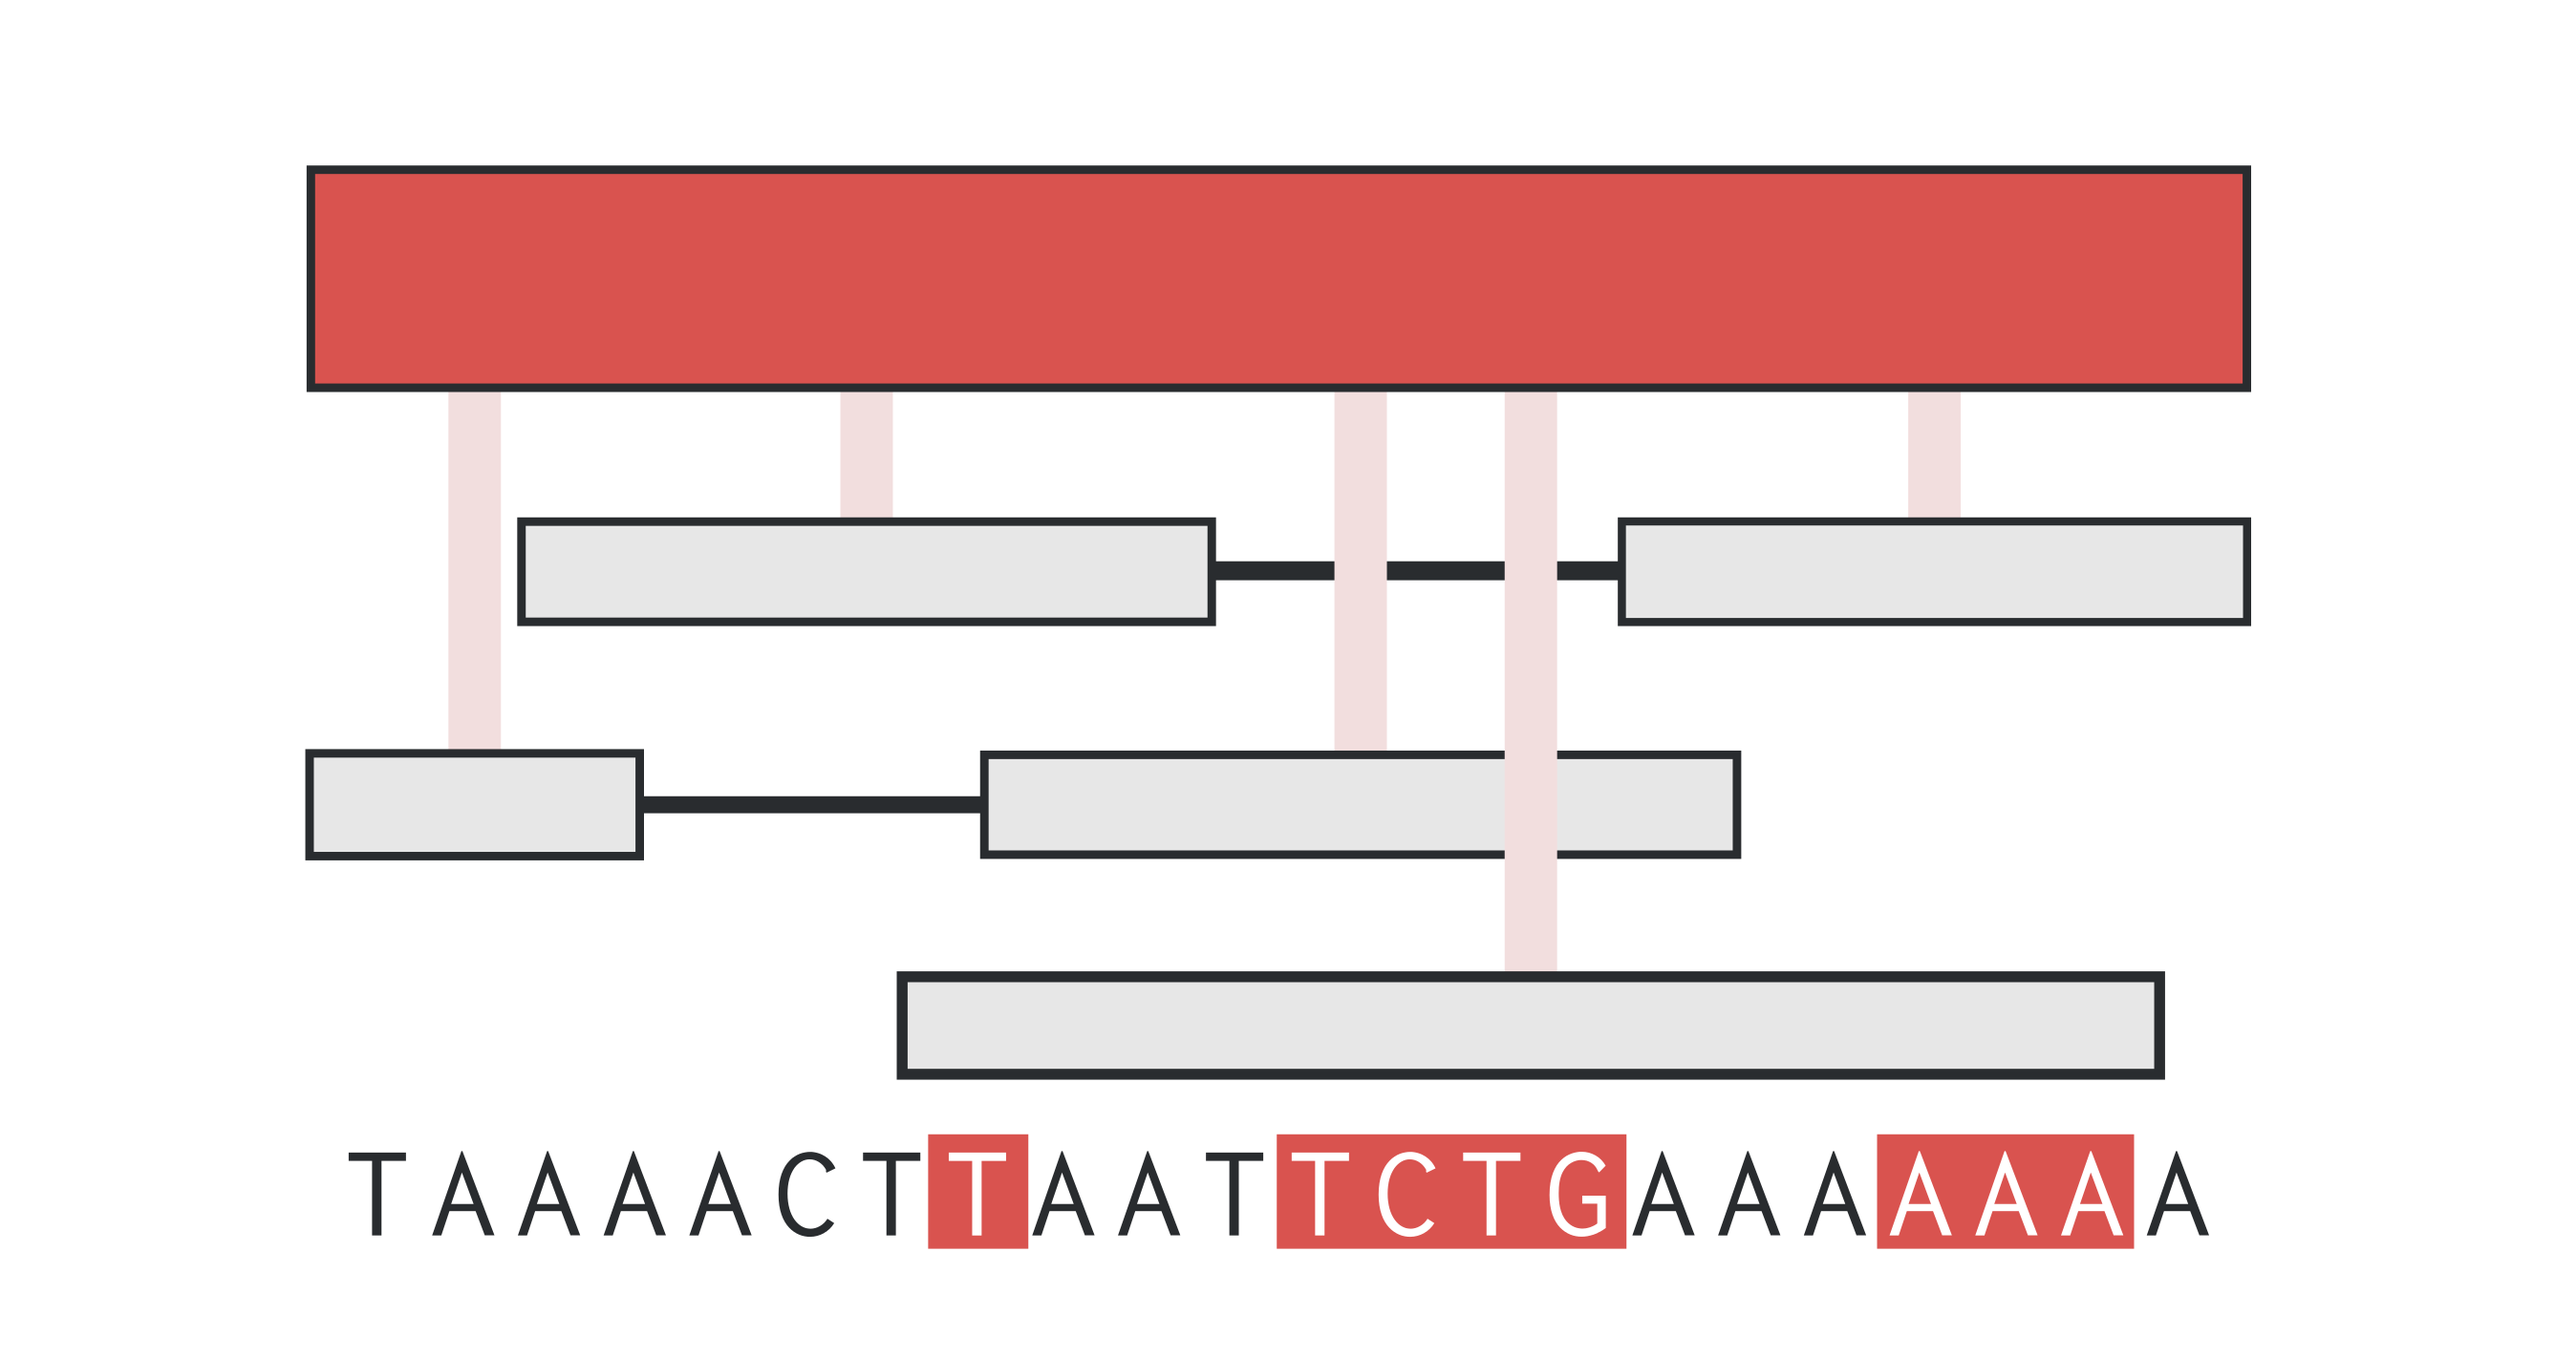
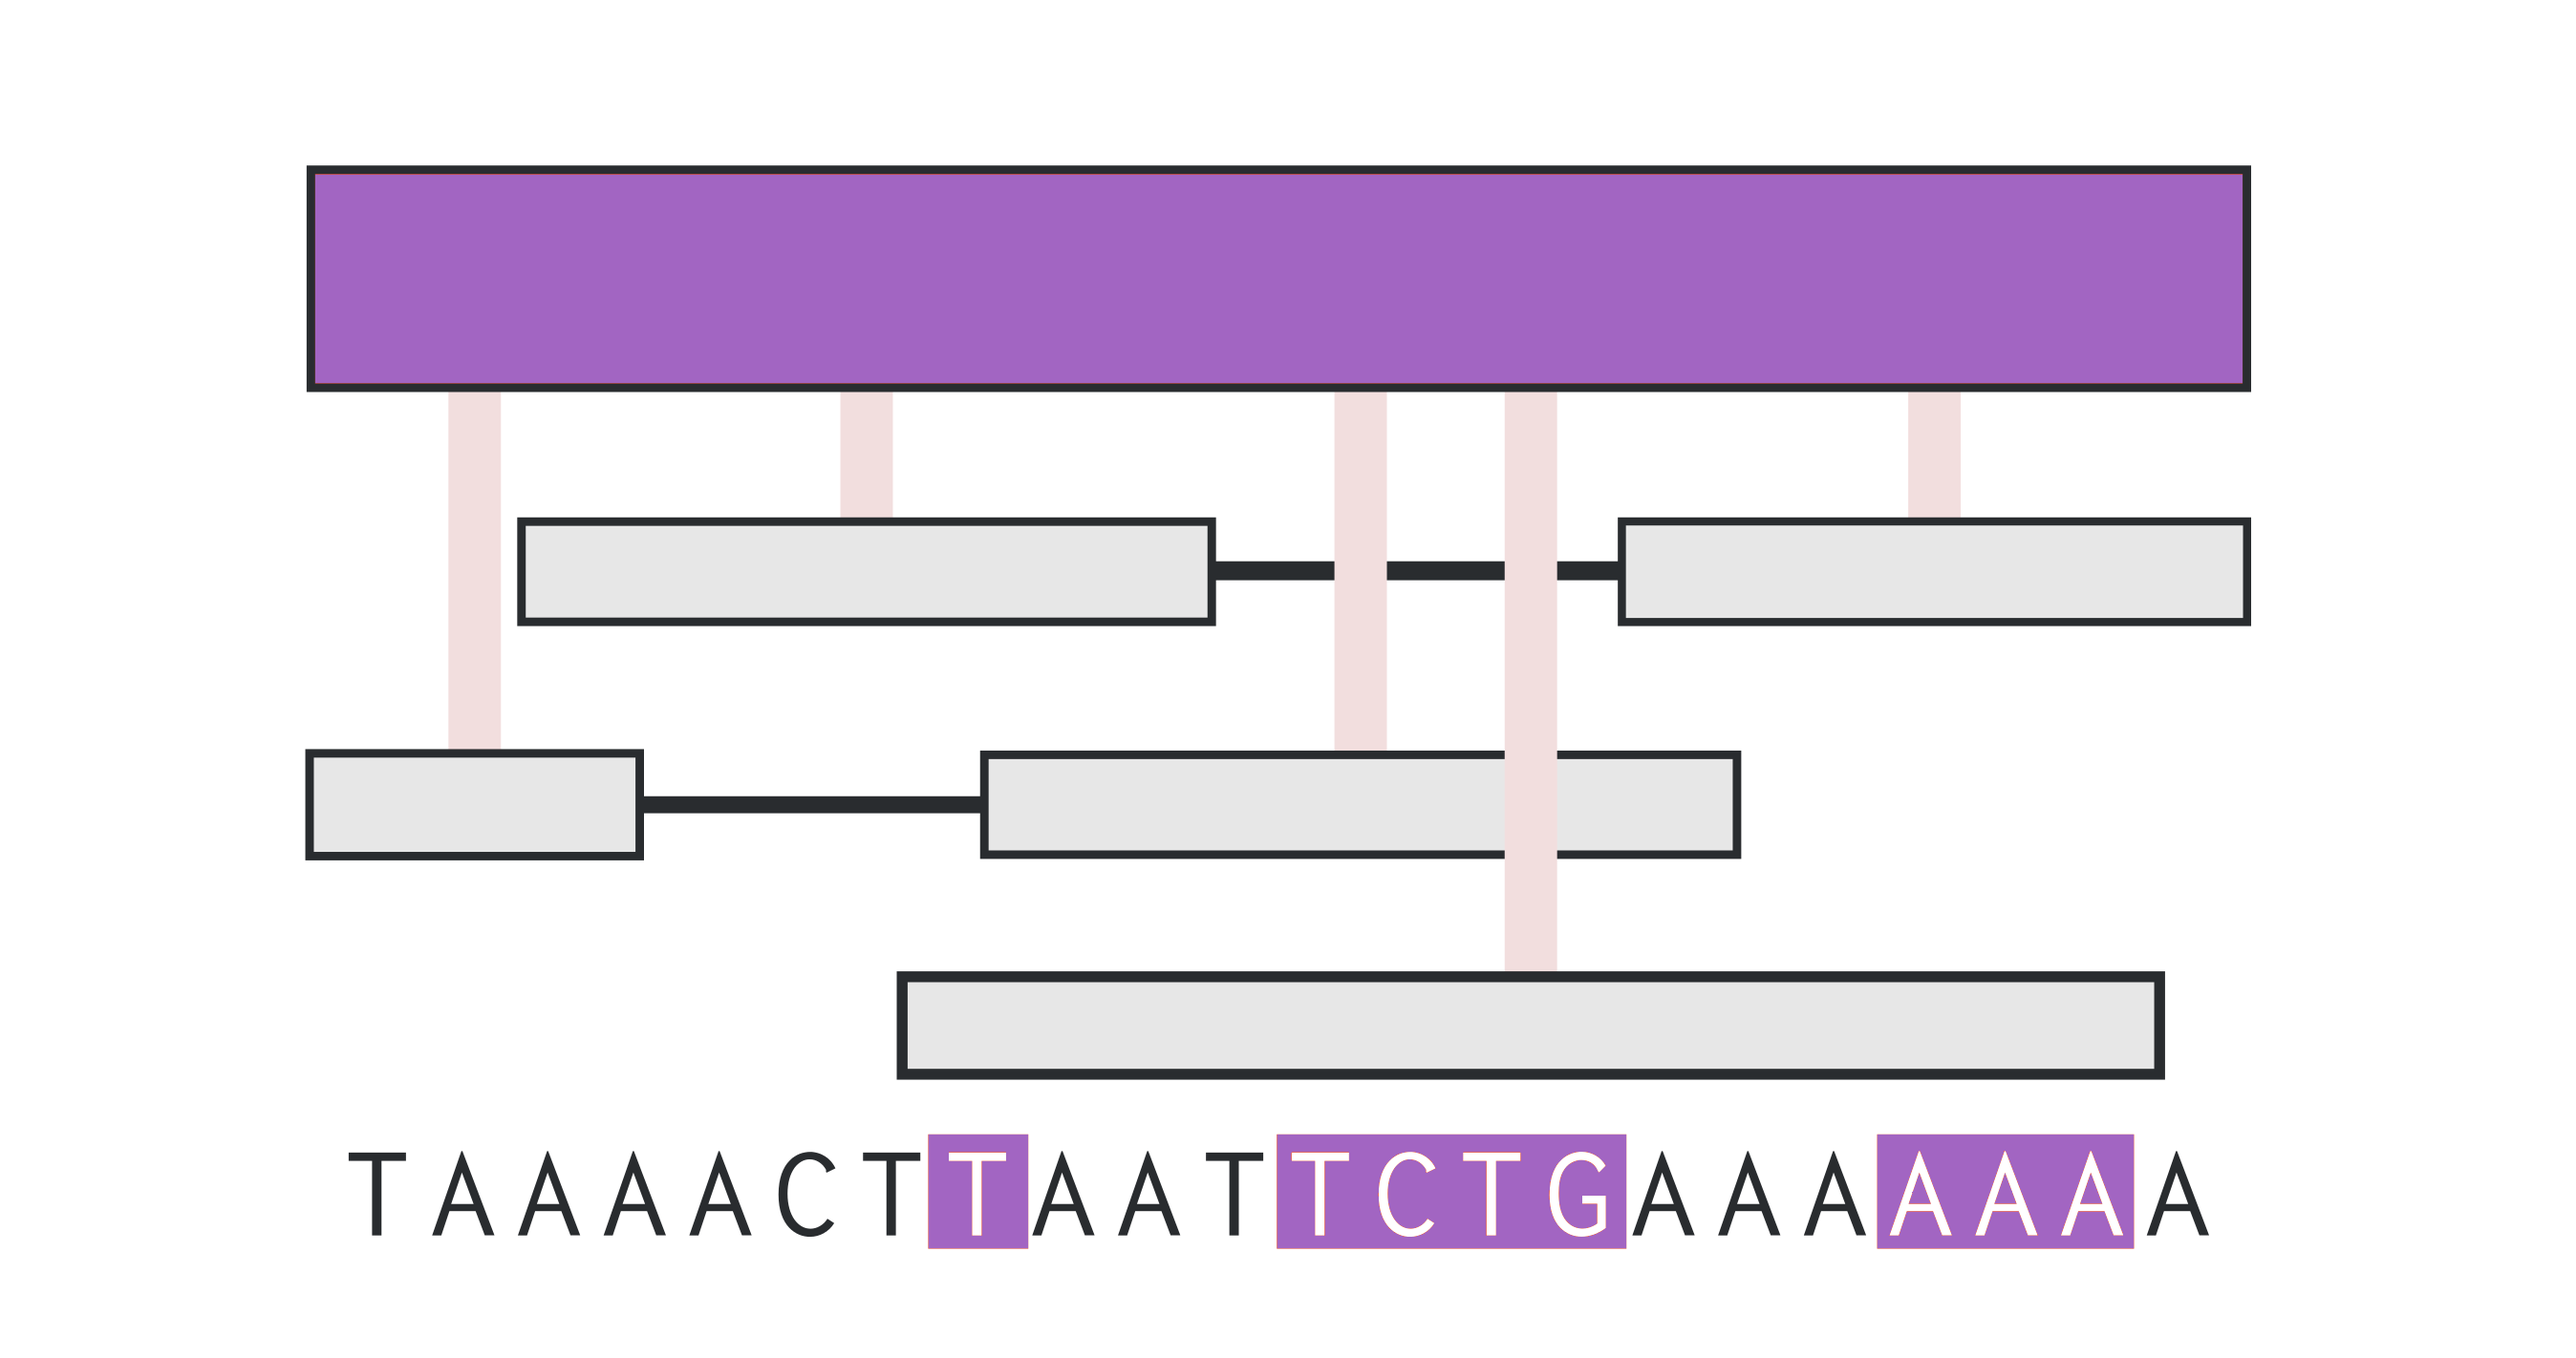
Changed color of BLAST and added checks to pfind form

diff --git a/NetExplorer/templates/NetExplorer/pathway_finder.html b/NetExplorer/templates/NetExplorer/pathway_finder.html
@@ -34,6 +34,61 @@
             </div>
             <div class="card-overlay" id="card-overlay"></div>
 
+            <!-- ERRORS -->
+            {% if nodb %}
+                <div class="panel panel-danger">
+                    <div class="panel-heading">
+                        <h2>No database</h2>
+                    </div>
+                    <div class="panel-body">
+                        Please, select a <strong>Database</strong> <img class="pfind-form-icon" src="{% static 'Images/database-icon.png' %}"/>
+                    </div>
+                </div>
+            {% endif %}
+
+            {% if nonodes %}
+                <div class="panel panel-danger">
+                    <div class="panel-heading">
+                        <h2>No nodes specified</h2>
+                    </div>
+                    <div class="panel-body">
+                        Please, select one <strong>Starting node</strong> <img class="pfind-form-icon" src="{% static 'Images/starting-node-icon.png' %}"/> and one <strong>Final node</strong> <img class="pfind-form-icon" src="{% static 'Images/ending-node-icon.png' %}"/>
+                    </div>
+                </div>
+            {% endif %}
+
+            {% if noresults %}
+                <div class="panel panel-warning">
+                    <div class="panel-heading">
+                        <h2>Results</h2>
+                    </div>
+                    <div class="panel-body pfind-res-panel">
+                        <h4> <span class="glyphicon glyphicon-play" aria-hidden="true"></span> Search parameters:</h4>
+                        <div id="search-param-pathway">
+                            <img class="pfind-form-icon" src="{% static 'Images/database-icon.png' %}"/> Database:  <strong>{{ database }} </strong><br>
+                            <img class="pfind-form-icon" src="{% static 'Images/starting-node-icon.png' %}"/> Starting Node: <strong>{{ snode }}</strong> <br>
+                            <img class="pfind-form-icon" src="{% static 'Images/ending-node-icon.png' %}"/> Final Node: <strong>{{ enode }}</strong> <br>
+                            <img class="pfind-form-icon" src="{% static 'Images/check.png' %}"/> Including: <strong> </strong> <br>
+                            <img class="pfind-form-icon" src="{% static 'Images/uncheck.png' %}"/> Excluding: <strong> </strong> <br>
+                        </div>
+                    </div>
+                </div>
+
+                <div class="panel panel-danger">
+                    <div class="panel-heading">
+                        <h2>No results for your query.</h2>
+                    </div>
+                    <div class="panel-body">
+                        <h2>Possible causes</h2>
+                        <ul>
+                            <li>The identifiers were not correctly spelled.</li>
+                            <li>If an including or an excluding node was specified, there are no paths between the two nodes that match this criteria.</li>
+                            <li>There is no path connecting the start node and the end node in the specified database.</li>
+                        </ul>
+                    </div>
+                </div>
+            {% endif %}
+
             <!-- PATHWAY RESULTS -->
             {% if pathways %}
                 <div class="panel panel-warning">
@@ -118,8 +173,8 @@
 
             <!-- FORM -->
             <form method="GET" action="{% url path_finder %}">
-
                 <!-- Select Database -->
+                <img class="pfind-form-icon" src="{% static 'Images/database-icon.png' %}"/>
                 <select name="database" class="selectpicker" title="Select Database">
                     <option value="Cthulhu">Cthulhu</option>
                     <option value="Consolidated">Consolidated</option>

diff --git a/NetExplorer/templates/NetExplorer/index.html b/NetExplorer/templates/NetExplorer/index.html
@@ -31,13 +31,13 @@
                 </div>
             </div>
             <div class="panel panel-danger app-container" >
-                <div class="panel-heading">
+                <div class="panel-heading panel-blast">
                     BLAST
                     <a href="#" data-toggle="tooltip" data-placement="top" title="Go to Tutorial">
                         <span class="glyphicon glyphicon-info-sign" aria-hidden="true"></span>
                     </a>
                 </div>
-                <a class="btn btn-danger app-button" href="{% url blast %}">Blast</a>
+                <a class="btn btn-blast app-button" href="{% url blast %}">Blast</a>
                 <div class="panel-body app-panel">
                     <p>BLAST the different planarian transcriptomes.</p>
                     <img class="app-icon" src="{% static 'Images/blast-icon.png' %}"/>

diff --git a/NetExplorer/static/css/style.css b/NetExplorer/static/css/style.css
@@ -114,7 +114,20 @@
     width: 180;
 }
 
+.panel-blast {
+    background-color: #edd9f8 !important;
 
+}
+
+.btn-blast:hover {
+    background-color: #9051b1;
+    color: white !important;
+}
+
+.btn-blast {
+    background-color: #a265c2;
+    color: white;
+}
 
 
 /* GENE CARDS */
